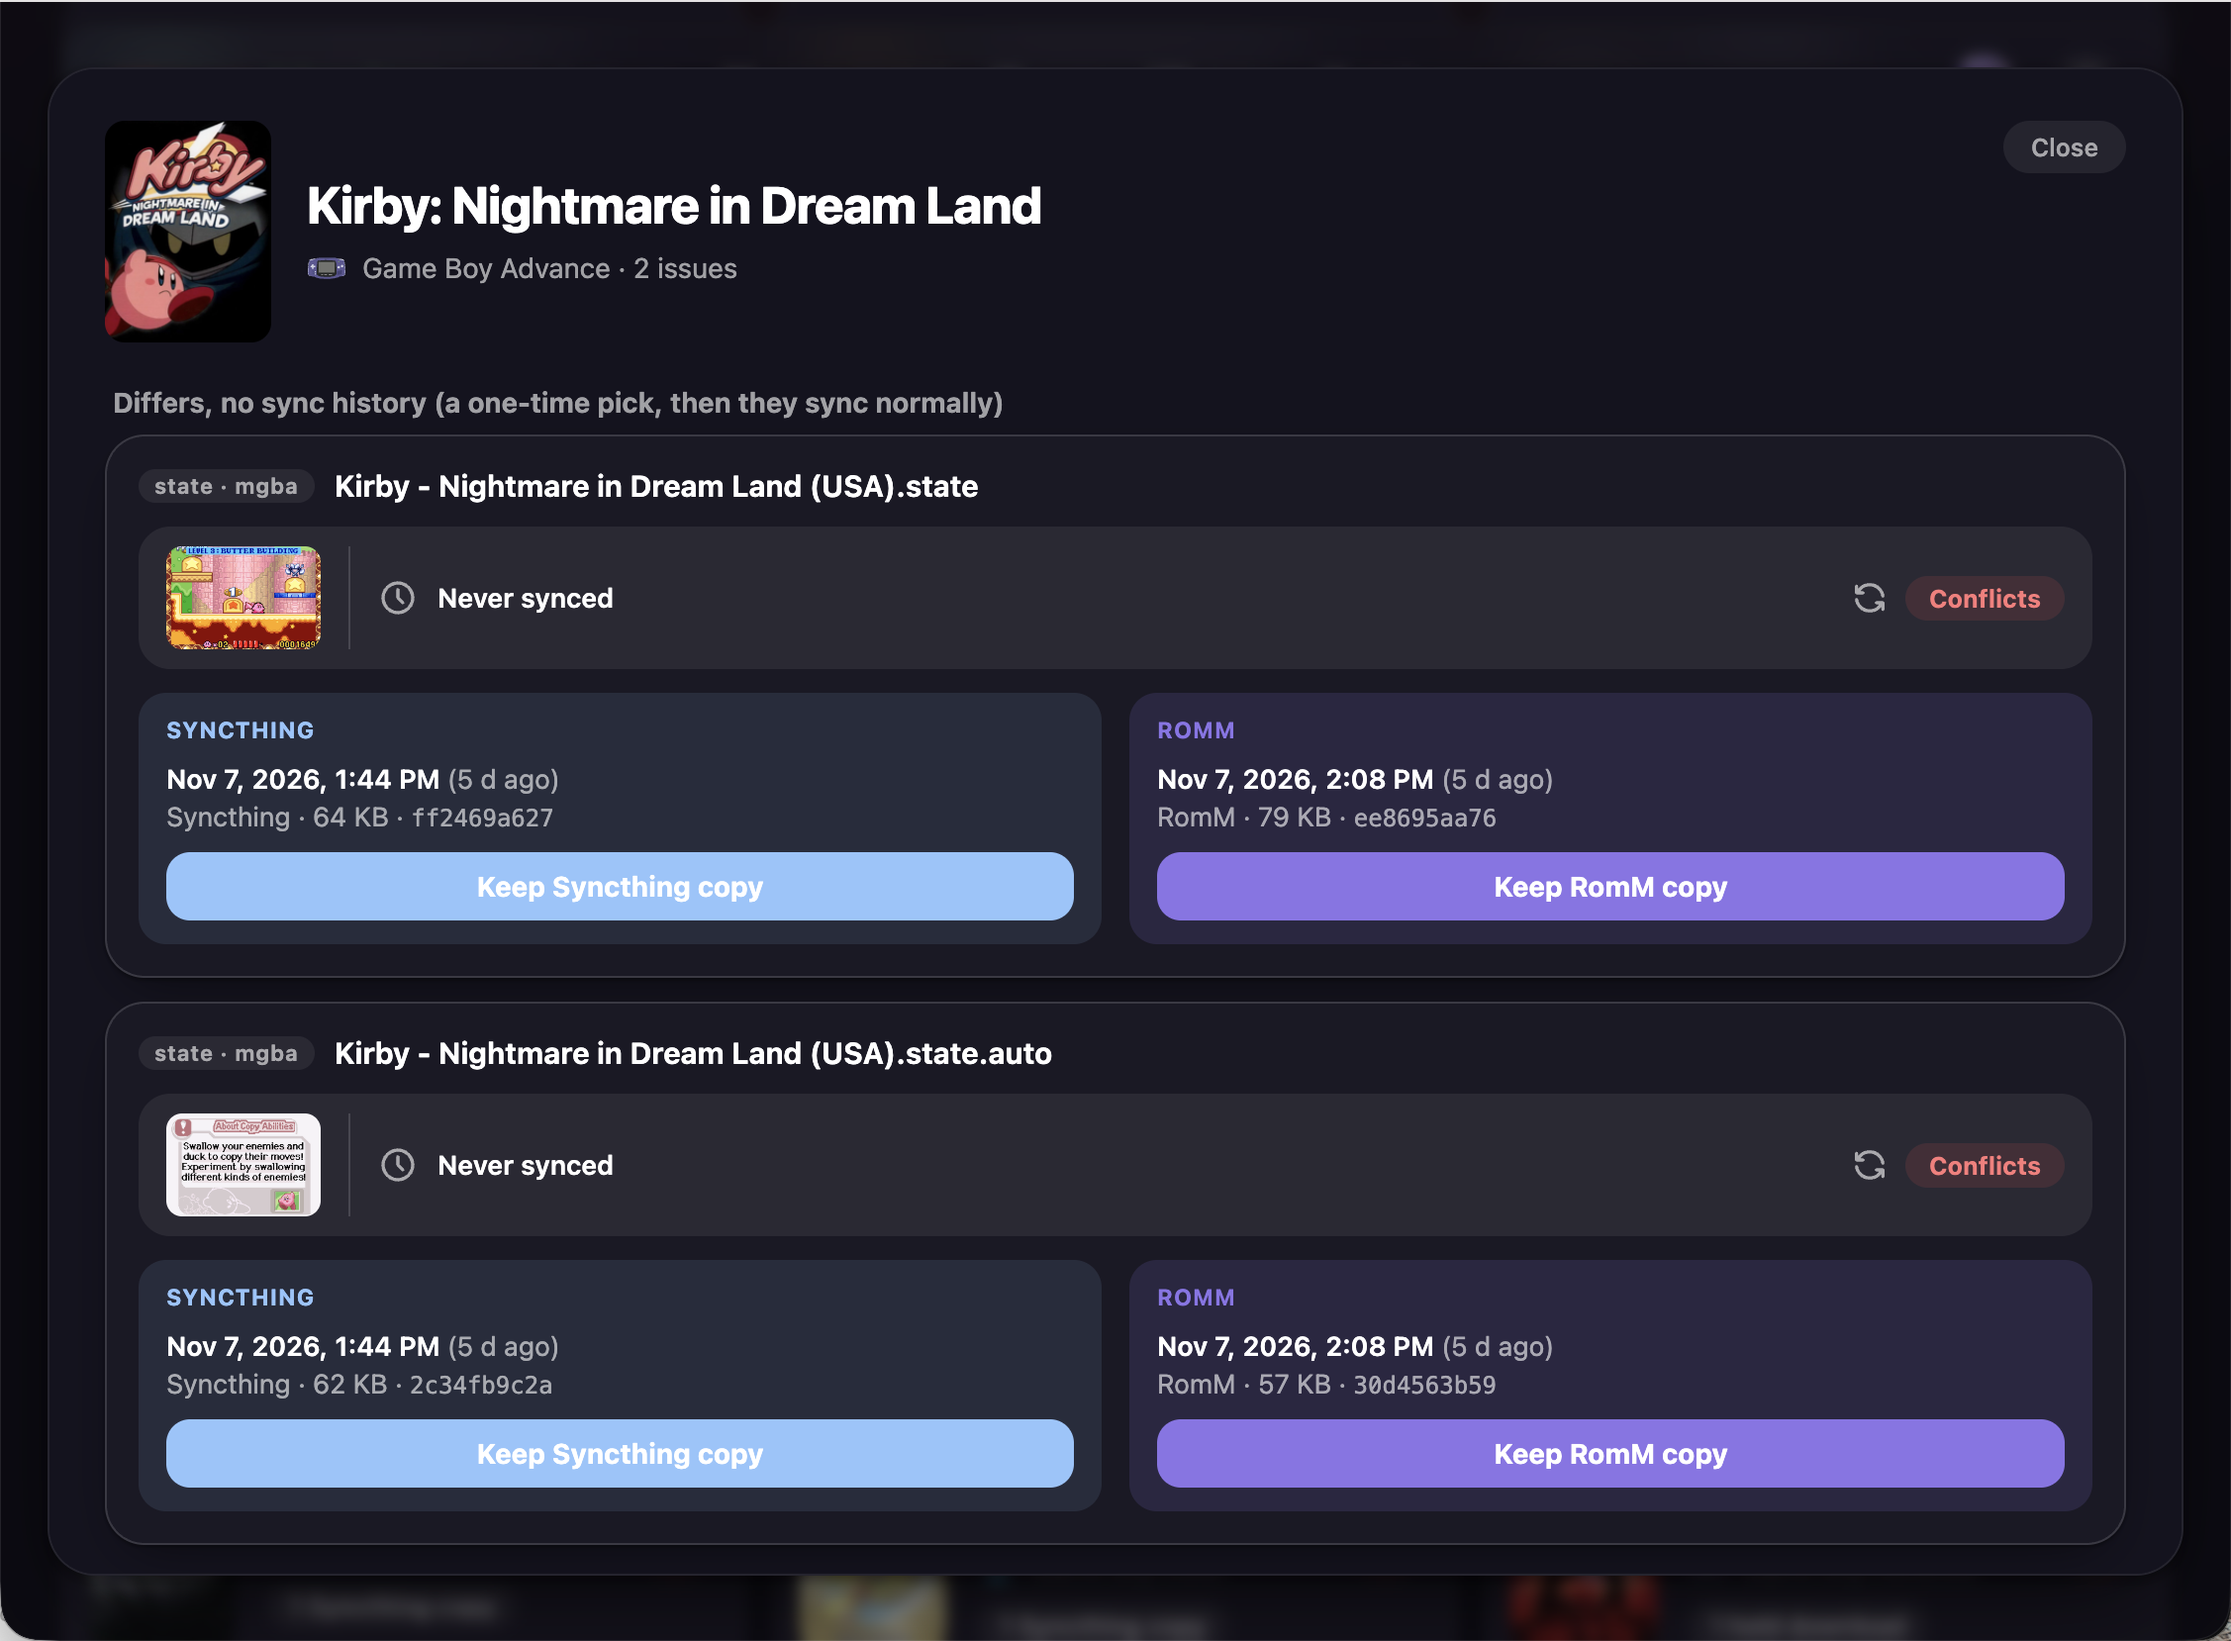
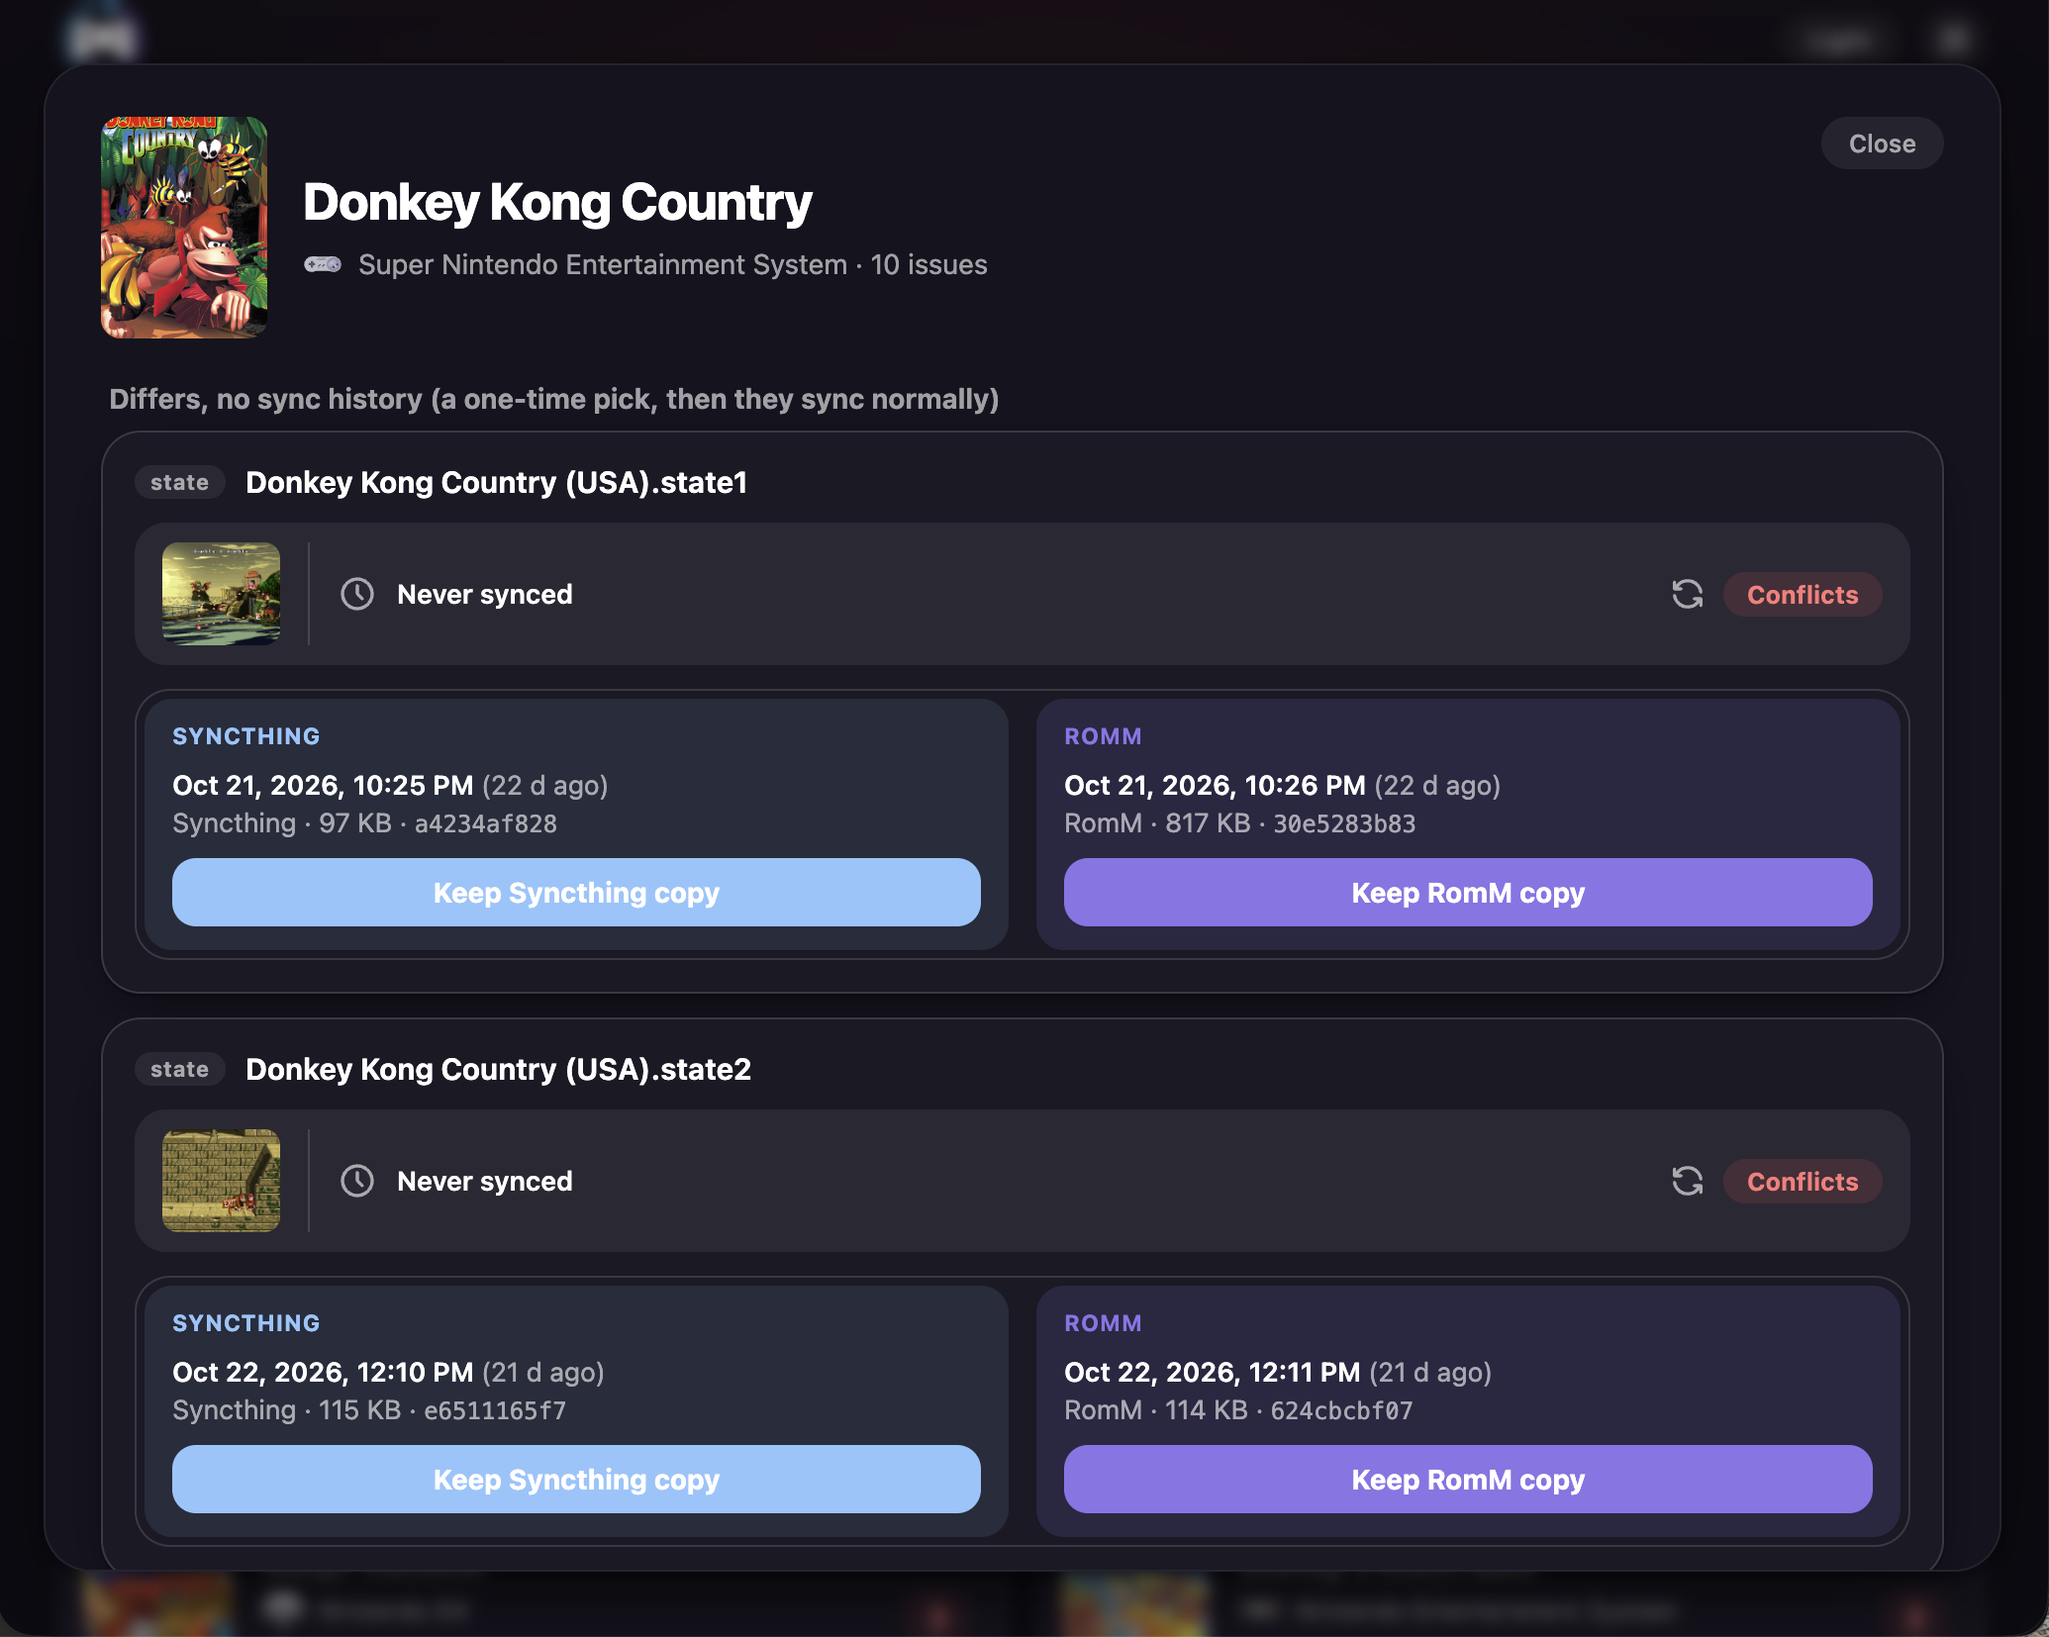
feat: conflict modal shows all files, grouped Syncthing copies, bar spacing (2.3.0) (#20)

diff --git a/src/webui_static/app.js b/src/webui_static/app.js
@@ -322,7 +322,7 @@ function conflictIssue(game, file, firstSeen = false) {
   const localNewer = new Date(file.local.modified_at) > new Date(file.romm.modified_at);
   const attrs = `data-rom="${game.rom_id}" data-file="${esc(file.file_name)}" data-emu="${esc(file.emulator)}" data-kind="${file.kind}"`;
   return `<div class="issue">${fileHead(file)}${statusRow(game, file)}
-      <div class="compare">
+      <div class="compare ${firstSeen ? "grouped" : ""}">
         ${issueSide("local", "Syncthing", copyLine(file.local, localNewer && !firstSeen), keepButton("local", "Keep Syncthing copy", attrs))}
         ${issueSide("romm", "RomM", copyLine(file.romm, !localNewer && !firstSeen), keepButton("romm", "Keep RomM copy", attrs, state.push_only ? PUSH_ONLY_REASON : ""))}
       </div></div>`;
@@ -360,9 +360,11 @@ function syncthingFile(copies, game) {
   return `<div class="issue">
       <div class="issue-head"><span class="kind">syncthing</span><span class="fname">${esc(copies[0].file_name)}</span></div>
       ${file ? statusRow(game, file, "conflict") : ""}
-      <div class="side compact local"><h4>Current file</h4>
-        <div class="st-copy first"><div class="copy">${copyLine(current, false)}</div>${bulkButton(copies[0].file_name, "Keep current copy")}</div></div>
-      <div class="side compact romm"><h4>${plural(copies.length, "conflict copy")}</h4>${rows}</div>
+      <div class="st-group">
+        <div class="side compact local"><h4>Current file</h4>
+          <div class="st-copy first"><div class="copy">${copyLine(current, false)}</div>${bulkButton(copies[0].file_name, "Keep current copy")}</div></div>
+        <div class="side compact st"><h4>${plural(copies.length, "conflict copy")}</h4>${rows}</div>
+      </div>
     </div>`;
 }
 
@@ -395,7 +397,10 @@ function openGroup(key) {
     section("Changed on both sides", g.conflicts.map((f) => conflictIssue(g.game, f))) +
     section("Differs, no sync history (a one-time pick, then they sync normally)", g.differs.map((f) => conflictIssue(g.game, f, true))) +
     (g.syncthing.length ? syncthingSection(g.syncthing, g.game) : "") +
-    section("Held RomM downloads", g.blocked.map((f) => blockedIssue(g.game, f))), "wide");
+    section("Held RomM downloads", g.blocked.map((f) => blockedIssue(g.game, f))) +
+    section("No Conflict", (g.game?.files ?? [])
+      .filter((f) => !isOpen(f) && f.status !== "blocked" && !g.syncthing.some((c) => c.file_name === f.file_name))
+      .map((f) => `<div class="issue">${fileHead(f)}${statusRow(g.game, f)}</div>`)), "wide");
   $(".scrim").onclick = (e) => {
     if (e.target.classList.contains("scrim") || e.target.classList.contains("close")) return closeModal();
     const bulk = e.target.closest("[data-bulk]")?.dataset.bulk;

diff --git a/src/webui_static/styles.css b/src/webui_static/styles.css
@@ -26,6 +26,8 @@
   --romm: #553e98;
   --romm-deep: #452788;
   --romm-tint: rgba(85, 62, 152, 0.10);
+  --st: #b85c1e;
+  --st-tint: rgba(184, 92, 30, 0.10);
   --mark-sync: #0284c7;
   --chip-bg: rgba(0, 0, 0, 0.045);
 
@@ -62,6 +64,7 @@
   --romm: #8b74e8;
   --romm-deep: #a18fff;
   --romm-tint: rgba(139, 116, 232, 0.15);
+  --st-tint: rgba(184, 92, 30, 0.16);
   --mark-sync: #38bdf8;
   --chip-bg: rgba(255, 255, 255, 0.07);
 
@@ -385,6 +388,9 @@ details.sub > summary { font-weight: 550; font-size: 14px; padding: 7px 10px; }
 /* the RomM logo is a filled disc and the mark is open pixels, so the mark runs larger to look the same size */
 .bottombar.action .romm-link img { width: 19px; height: 19px; }
 #bar-menu .bar-mark { width: 26px; height: 26px; }
+/* the two bar buttons read as one pair, so they sit closer than the bar's gap */
+/* the negative right margin cancels the mark's inset in its box, so its edge mirrors the issue readout's */
+#bar-menu { margin-left: -2px; margin-right: -4px; }
 
 /* desktop: a second card under the hero that sticks to the top edge as the page scrolls past it */
 @media (min-width: 641px) {
@@ -400,6 +406,7 @@ details.sub > summary { font-weight: 550; font-size: 14px; padding: 7px 10px; }
   .bottombar.action .romm-link img { width: 24px; height: 24px; }
   #bar-menu .bar-mark { width: 32px; height: 32px; }
   .bottombar.action .romm-link, #bar-menu .menu-toggle { width: 42px; height: 42px; }
+  #bar-menu { margin-left: -20px; margin-right: -5px; }
 }
 .bottombar.action .bar-issues, .bottombar.action .bar-last { animation: bar-item-in 0.35s 0.08s both; }
 .bottombar.action #bar-menu { animation: bar-fade-in 0.35s 0.08s both; }
@@ -468,7 +475,11 @@ details.sub > summary { font-weight: 550; font-size: 14px; padding: 7px 10px; }
 .st-copy { display: flex; align-items: center; gap: 12px; flex-wrap: wrap; padding-top: 10px; border-top: 1px solid var(--hairline); }
 .st-copy .copy { flex: 1; min-width: 200px; }
 .st-actions { display: flex; gap: 8px; }
-.pill.use { background: var(--romm); color: #fff; }
+.pill.use { background: var(--st); color: #fff; }
+.st-group { display: grid; gap: 4px; }
+.st-group, .compare.grouped { padding: 4px; border: 1px solid var(--hairline-strong); border-radius: 18px; }
+.side.st { background: var(--st-tint); }
+.side.st h4 { color: var(--st); }
 .pill:disabled { color: var(--text-faint); cursor: not-allowed; }
 .mono { font-family: var(--font-mono); font-size: 12px; }
 .history { list-style: none; display: grid; gap: 6px; }
